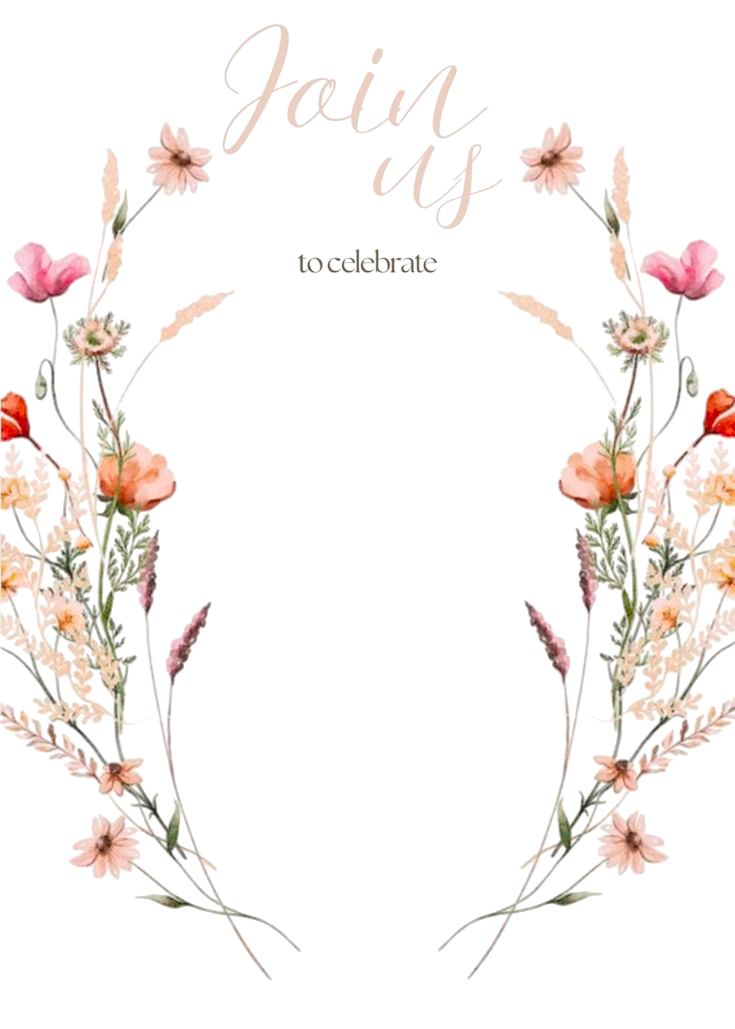
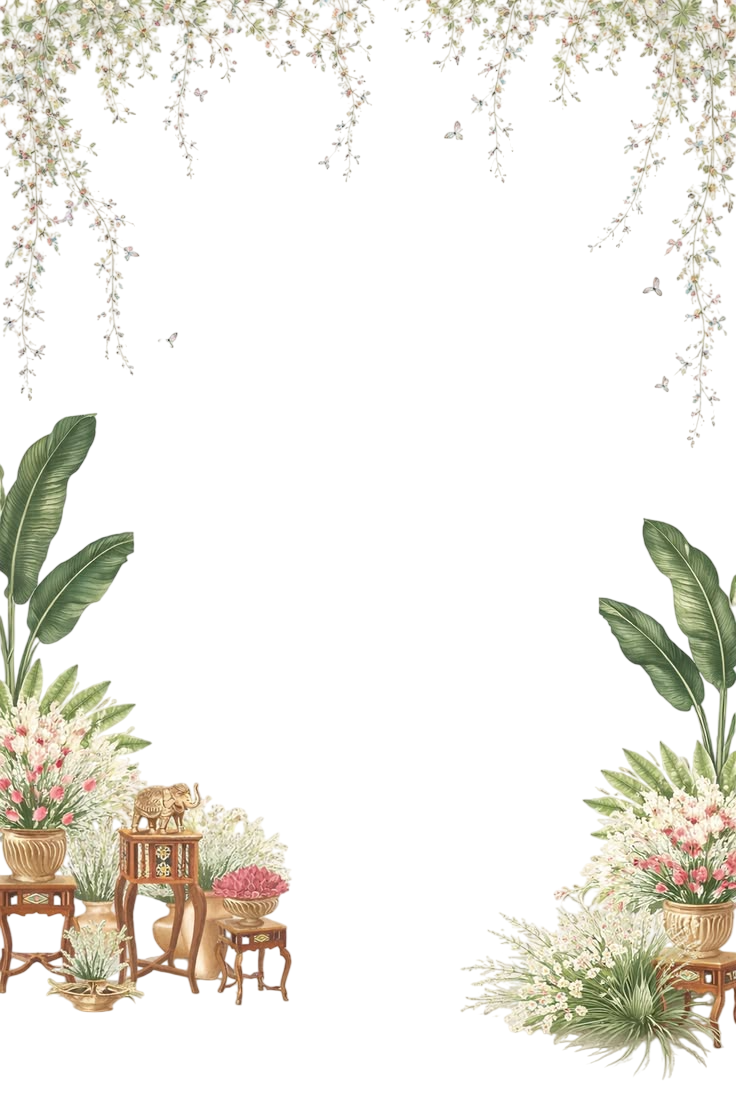
Revert "Merge remote-tracking branch 'origin/main'"
This reverts commit 4ac746b405e453a4cc2283856f0e8e7360980e4a, reversing
changes made to 40857df3603a16527e78c87f4ef7342f90b93694.

diff --git a/src/sections/VenueSection.tsx b/src/sections/VenueSection.tsx
@@ -2,8 +2,8 @@ import { useRef } from 'react';
 import { motion, useInView } from 'framer-motion';
 import { MapPin } from 'lucide-react';
 
-const VENUE_NAME = 'Alpha Horizon Bolgatty';
-const VENUE_ADDRESS = 'Alfa Horizon Business Centre, Goshree Rd, opposite ICTT, Vallarpadam, Kochi, Ernakulam, Kerala 682504';
+const VENUE_NAME = 'Krishna Inn Hotel';
+const VENUE_ADDRESS = 'KRISHNA INN, GURUVAYOOR (Star Hotel), East Nada, Guruvayur, Kerala 680101';
 
 function getMapsUrl(address: string) {
   const query = encodeURIComponent(address);
@@ -17,75 +17,62 @@ export default function VenueSection() {
   const mapsUrl = getMapsUrl(VENUE_ADDRESS);
 
   return (
-    <section ref={sectionRef} className="relative w-full h-[80vh] sm:h-[90vh]" style={{ clipPath: 'inset(-30% 0 -20% 0)' }}>
+    <section ref={sectionRef} className="relative w-full h-[80vh] sm:h-[90vh]" style={{ clipPath: 'inset(-30% 0 0 0)' }}>
       {/* Background image, scaled up so the top leaf overlaps the section above; left/right/bottom stay flush */}
       <img
-        src="/reception_venue.png"
+        src="/venue.png"
         alt="Wedding venue"
-        className="absolute inset-0 w-full h-full object-cover object-center"
+        className="absolute inset-0 w-full h-full object-cover"
+        style={{ transform: 'scale(1.18) translateX(5%) translateY(-4%)' }}
       />
-      <img
-        src="/Reception_venue_house.png"
-        alt="Venue house"
-        className="absolute top-[34%] left-1/2 -translate-x-1/2 -translate-y-1/2 w-[224px] sm:w-[291px] h-auto z-[5]"
-      />
-
-      {/* Title (kept independent of the shifted content block so it stays truly centered) */}
-      <motion.p
-        className="absolute inset-x-0 top-[4.5rem] sm:top-[6rem] z-10 text-center font-script text-4xl sm:text-6xl text-black drop-shadow-lg"
-        initial={{ opacity: 0, y: 20 }}
-        animate={isInView ? { opacity: 1, y: 0 } : {}}
-        transition={{ duration: 0.8 }}
-      >
-        Wedding Venue
-      </motion.p>
 
       {/* Content */}
-      <div className="relative z-10 flex flex-col items-center justify-start h-full pt-[56%] sm:pt-[52%] px-6 translate-x-8 sm:translate-x-12">
+      <div className="relative z-10 flex flex-col items-center justify-start h-full pt-24 sm:pt-32 px-6 translate-x-8 sm:translate-x-12">
+        {/* Title */}
+        <motion.p
+          className="font-script text-4xl sm:text-6xl text-[#D4AF37] drop-shadow-lg mb-4"
+          initial={{ opacity: 0, y: 20 }}
+          animate={isInView ? { opacity: 1, y: 0 } : {}}
+          transition={{ duration: 0.8 }}
+        >
+          Wedding Venue
+        </motion.p>
+
         {/* Venue Info */}
-        <div className="mb-8 -translate-x-8 sm:-translate-x-10 translate-y-2 sm:translate-y-1">
-          <motion.a
-            href={mapsUrl}
-            target="_blank"
-            rel="noopener noreferrer"
-            className="flex flex-col items-center gap-2 cursor-pointer hover:opacity-80 transition-opacity"
-            initial={{ opacity: 0, y: 20 }}
-            animate={isInView ? { opacity: 1, y: 0 } : {}}
-            transition={{ delay: 0.2, duration: 0.8 }}
-          >
-            <div className="text-center">
-              <p className="font-display text-lg text-[#D4AF37] drop-shadow flex items-center justify-center gap-2">
-                <MapPin className="w-4 h-4 text-[#D4AF37]" />
-                {VENUE_NAME}
-              </p>
-              <p className="font-serif text-sm text-[#D4AF37]/80">Kochi, Kerala</p>
-              <p className="font-serif text-xs sm:text-sm text-[#D4AF37]/80 mt-2">
-                Guest arrival 6:30 PM · Couple entry 7:00 PM
-                <br />
-                Dinner 8:00 PM
-              </p>
-            </div>
-          </motion.a>
-        </div>
+        <motion.a
+          href={mapsUrl}
+          target="_blank"
+          rel="noopener noreferrer"
+          className="flex items-center gap-3 mb-4 cursor-pointer hover:opacity-80 transition-opacity"
+          initial={{ opacity: 0, y: 20 }}
+          animate={isInView ? { opacity: 1, y: 0 } : {}}
+          transition={{ delay: 0.2, duration: 0.8 }}
+        >
+          <div className="w-10 h-10 rounded-full bg-white/20 backdrop-blur-sm flex items-center justify-center">
+            <MapPin className="w-5 h-5 text-[#D4AF37]" />
+          </div>
+          <div>
+            <p className="font-display text-lg text-[#D4AF37] drop-shadow">{VENUE_NAME}</p>
+            <p className="font-serif text-sm text-[#D4AF37]/80">Guruvayoor, Kerala</p>
+          </div>
+        </motion.a>
 
         {/* Floating location badge */}
-        <div className="-translate-x-8 sm:-translate-x-10">
-          <motion.a
-            href={mapsUrl}
-            target="_blank"
-            rel="noopener noreferrer"
-            className="glass rounded-full px-6 py-3 flex items-center gap-3 cursor-pointer hover:bg-white/40 transition-colors mt-6"
-            initial={{ opacity: 0, y: 20 }}
-            animate={isInView ? { opacity: 1, y: [20, 0, 0, -8, 0] } : {}}
-            transition={{
-              opacity: { delay: 0.5, duration: 0.4 },
-              y: { delay: 0.5, duration: 2, times: [0, 0.2, 0.5, 0.75, 1], repeat: Infinity, repeatDelay: 0.6 },
-            }}
-          >
-            <MapPin className="w-5 h-5 text-[#D4AF37]" />
-            <span className="font-serif text-base sm:text-lg text-[#D4AF37]">View on Maps</span>
-          </motion.a>
-        </div>
+        <motion.a
+          href={mapsUrl}
+          target="_blank"
+          rel="noopener noreferrer"
+          className="glass rounded-full px-6 py-3 flex items-center gap-3 cursor-pointer hover:bg-white/40 transition-colors"
+          initial={{ opacity: 0, y: 20 }}
+          animate={isInView ? { opacity: 1, y: [20, 0, 0, -8, 0] } : {}}
+          transition={{
+            opacity: { delay: 0.5, duration: 0.4 },
+            y: { delay: 0.5, duration: 2, times: [0, 0.2, 0.5, 0.75, 1], repeat: Infinity, repeatDelay: 0.6 },
+          }}
+        >
+          <MapPin className="w-5 h-5 text-[#D4AF37]" />
+          <span className="font-serif text-base sm:text-lg text-[#D4AF37]">View on Maps</span>
+        </motion.a>
       </div>
     </section>
   );

diff --git a/src/sections/DateSection.tsx b/src/sections/DateSection.tsx
@@ -2,30 +2,7 @@ import { useRef } from 'react';
 import { motion, useInView } from 'framer-motion';
 import { CalendarPlus } from 'lucide-react';
 
-const EVENT_TITLE = "Agin & Aarati's Wedding";
-const EVENT_LOCATION = 'Alfa Horizon Business Centre, Goshree Rd, opposite ICTT, Vallarpadam, Kochi, Ernakulam, Kerala 682504';
-const EVENT_DESCRIPTION = "Join us as we celebrate Agin & Aarati's wedding!";
-const EVENT_START = '20261031T043000Z';
-const EVENT_END = '20261031T190000Z';
-
 function addWeddingToCalendar() {
-  const isIOS = /iPhone|iPad|iPod/.test(navigator.userAgent);
-  const isAndroid = /Android/.test(navigator.userAgent);
-
-  if (isAndroid) {
-    // Android's Calendar app doesn't reliably pick up .ics downloads, but every
-    // Android device with Google Calendar installed handles this URL directly.
-    const params = new URLSearchParams({
-      action: 'TEMPLATE',
-      text: EVENT_TITLE,
-      dates: `${EVENT_START}/${EVENT_END}`,
-      details: EVENT_DESCRIPTION,
-      location: EVENT_LOCATION,
-    });
-    window.open(`https://calendar.google.com/calendar/render?${params.toString()}`, '_blank');
-    return;
-  }
-
   const ics = [
     'BEGIN:VCALENDAR',
     'VERSION:2.0',
@@ -34,16 +11,17 @@ function addWeddingToCalendar() {
     'BEGIN:VEVENT',
     'UID:agin-aarati-wedding-2026@invite',
     `DTSTAMP:${new Date().toISOString().replace(/[-:]/g, '').split('.')[0]}Z`,
-    `DTSTART:${EVENT_START}`,
-    `DTEND:${EVENT_END}`,
-    `SUMMARY:${EVENT_TITLE}`,
-    `LOCATION:${EVENT_LOCATION.replace(/,/g, '\\,')}`,
-    `DESCRIPTION:${EVENT_DESCRIPTION}`,
+    'DTSTART:20261030T043000Z',
+    'DTEND:20261030T190000Z',
+    "SUMMARY:Agin & Aarati's Wedding",
+    'LOCATION:KRISHNA INN\\, GURUVAYOOR (Star Hotel)\\, East Nada\\, Guruvayur\\, Kerala 680101',
+    "DESCRIPTION:Join us as we celebrate Agin & Aarati's wedding!",
     'END:VEVENT',
     'END:VCALENDAR',
   ].join('\r\n');
 
   const blob = new Blob([ics], { type: 'text/calendar;charset=utf-8' });
+  const isIOS = /iPhone|iPad|iPod/.test(navigator.userAgent);
 
   if (isIOS) {
     // iOS Safari blocks JS-driven navigation to data: URIs unless it's a base64
@@ -62,7 +40,7 @@ function addWeddingToCalendar() {
     return;
   }
 
-  // Desktop: browsers hand .ics blobs to the default calendar app via the download/open-with sheet.
+  // Android/desktop: browsers hand .ics blobs to the Calendar app via the download/open-with sheet.
   const url = URL.createObjectURL(blob);
   const link = document.createElement('a');
   link.href = url;
@@ -114,7 +92,7 @@ export default function DateSection() {
     >
       {/* Full scale image */}
       <img
-        src="/reception_date.png"
+        src="/save_the_date.png"
         alt="Date"
         className="absolute inset-0 w-full h-full object-fill"
       />
@@ -127,7 +105,7 @@ export default function DateSection() {
       */}
       <div
         className="absolute left-0 right-0 flex flex-col items-center justify-center"
-        style={{ top: '22%', bottom: '32%', paddingLeft: '8%', paddingRight: '8%', gap: '2vw' }}
+        style={{ top: '22%', bottom: '32%', paddingLeft: '4%', paddingRight: '12%', gap: '2vw' }}
       >
         {/* Title */}
         <motion.p
@@ -140,9 +118,21 @@ export default function DateSection() {
           Save The Date
         </motion.p>
 
+        <motion.div
+          className="flex items-center text-[#9b7a4a] font-serif tracking-wider"
+          style={{ gap: '1.2vw', fontSize: '3.2vw' }}
+          initial={{ opacity: 0 }}
+          animate={isInView ? { opacity: 1 } : {}}
+          transition={{ delay: 0.3, duration: 0.8 }}
+        >
+          <span className="text-[#c9a84c]">&#10022;</span>
+          <span>Mark the date</span>
+          <span className="text-[#c9a84c]">&#10022;</span>
+        </motion.div>
+
         {/* Date cards */}
-        <div className="flex w-full justify-center" style={{ gap: '2.5vw', marginTop: '4vw' }}>
-          <DateCard value="31" label="Day" delay={0.2} />
+        <div className="flex" style={{ gap: '2.5vw', marginTop: '4vw' }}>
+          <DateCard value="30" label="Day" delay={0.2} />
           <DateCard value="Oct" label="Month" delay={0.4} />
           <DateCard value="2026" label="Year" delay={0.6} />
         </div>

diff --git a/src/sections/HeroSection.tsx b/src/sections/HeroSection.tsx
@@ -53,6 +53,46 @@ function Bird({ delay, duration, startY, reverse = false, scale = 1 }: BirdProps
   );
 }
 
+interface CloudProps {
+  top: string;
+  delay: number;
+  duration: number;
+  scale: number;
+  opacity: number;
+}
+
+function Cloud({ top, delay, duration, scale, opacity }: CloudProps) {
+  return (
+    <motion.div
+      className="absolute pointer-events-none"
+      style={{ 
+        top,
+        left: '-30%',
+        width: '300px',
+        height: '120px',
+        opacity,
+      }}
+      animate={{ 
+        x: ['0vw', '130vw'],
+        y: [0, -15, 10, -5, 0],
+      }}
+      transition={{ 
+        x: { duration, delay, repeat: Infinity, ease: 'linear' },
+        y: { duration: 8, delay, repeat: Infinity, ease: 'easeInOut' }
+      }}
+    >
+      <div 
+        className="w-full h-full rounded-full"
+        style={{
+          background: `radial-gradient(ellipse at center, rgba(255,255,255,0.9) 0%, rgba(255,255,255,0.6) 40%, rgba(255,255,255,0) 70%)`,
+          filter: 'blur(20px)',
+          transform: `scale(${scale})`,
+        }}
+      />
+    </motion.div>
+  );
+}
+
 export default function HeroSection() {
   const heroRef = useRef<HTMLDivElement>(null);
 
@@ -84,6 +124,14 @@ export default function HeroSection() {
         <Bird delay={8} duration={24} startY={30} reverse scale={0.5} />
       </div>
 
+      {/* Animated clouds */}
+      <div className="absolute inset-0 pointer-events-none z-[5] overflow-hidden">
+        <Cloud top="5%" delay={0} duration={35} scale={1.2} opacity={0.6} />
+        <Cloud top="15%" delay={8} duration={40} scale={0.8} opacity={0.4} />
+        <Cloud top="8%" delay={16} duration={45} scale={1.0} opacity={0.5} />
+        <Cloud top="20%" delay={24} duration={38} scale={0.6} opacity={0.3} />
+      </div>
+
       {/* Floating decorative elements - small sparkles */}
       <div className="absolute inset-0 pointer-events-none z-[8]">
         {[...Array(6)].map((_, i) => (
@@ -110,28 +158,28 @@ export default function HeroSection() {
       </div>
 
       {/* Hero text content */}
-      <div className="relative z-20 flex flex-col items-center justify-center h-[100vh] px-6 pb-[8vh]">
+      <div className="relative z-20 flex flex-col items-center justify-center h-[100vh] px-6 pb-[15vh]">
         <motion.div
           initial={{ opacity: 0, y: 30 }}
           animate={{ opacity: 1, y: 0 }}
           transition={{ delay: 0.3, duration: 1, ease: [0.22, 1, 0.36, 1] }}
-          className="text-center mt-20 sm:mt-28"
+          className="text-center"
         >
-          <motion.p
-            className="font-serif text-base sm:text-lg text-[#6b6155] mb-1 -mt-6 sm:-mt-8"
-            initial={{ opacity: 0 }}
-            animate={{ opacity: 1 }}
-            transition={{ delay: 0.7, duration: 0.8 }}
-          >
-            the wedding reception of
-          </motion.p>
-
-          <motion.p
-            className="font-script text-4xl sm:text-6xl text-[#5a4a3d] drop-shadow-sm"
+          <motion.p 
+            className="font-script text-5xl sm:text-7xl text-[#5a4a3d] mb-2 drop-shadow-sm"
             animate={{ y: [0, -5, 0] }}
             transition={{ duration: 4, repeat: Infinity, ease: 'easeInOut' }}
           >
             Agin & Aarati
+          </motion.p>
+          
+          <motion.p 
+            className="font-serif text-lg sm:text-xl text-[#7a6a5d] tracking-[0.2em] uppercase"
+            initial={{ opacity: 0 }}
+            animate={{ opacity: 1 }}
+            transition={{ delay: 0.8, duration: 0.8 }}
+          >
+            are getting married
           </motion.p>
 
           {/* Decorative line */}
@@ -153,8 +201,8 @@ export default function HeroSection() {
       </div>
 
       {/* Scroll indicator */}
-      <motion.div
-        className="absolute bottom-8 inset-x-0 mx-auto w-fit z-20 flex flex-col items-center gap-2"
+      <motion.div 
+        className="absolute bottom-8 left-1/2 -translate-x-1/2 z-20 flex flex-col items-center gap-2"
         animate={{ y: [0, 8, 0] }}
         transition={{ duration: 2, repeat: Infinity }}
       >

diff --git a/src/sections/LandingPage.tsx b/src/sections/LandingPage.tsx
@@ -59,22 +59,19 @@ export default function LandingPage() {
   return (
     <div ref={containerRef} className="relative w-full bg-[#faf7f2] overflow-x-clip">
       <HeroSection />
-      <div className="relative z-20 flex justify-center -mt-10 sm:-mt-14 -mb-10 sm:-mb-14 pointer-events-none">
-        <img src="/extra_img_2.png" alt="" className="w-screen max-w-none h-auto" />
-      </div>
-      <div className="animate-section relative z-10">
+      <div className="animate-section">
         <DateSection />
       </div>
       <div className="animate-section">
         <LetterSection />
       </div>
-      <div className="relative z-20 flex justify-center -mt-10 sm:-mt-14 pointer-events-none">
-        <img src="/extra_img_2.png" alt="" className="w-screen max-w-none h-auto" />
-      </div>
-      <div className="animate-section relative z-20 -mb-20 sm:-mb-28">
+      {/* <div className="animate-section">
+        <ScheduleSection />
+      </div> */}
+      <div className="animate-section">
         <VenueSection />
       </div>
-      <div className="animate-section relative z-10">
+      <div className="animate-section">
         <DressCodeSection />
       </div>
       <div className="animate-section">

diff --git a/src/sections/ScheduleSection.tsx b/src/sections/ScheduleSection.tsx
@@ -2,9 +2,12 @@ import { useRef } from 'react';
 import { motion, useInView, useScroll, useTransform } from 'framer-motion';
 
 const events = [
-  { time: '6:30 PM', title: 'Guest Arrival', align: 'right' },
-  { time: '7:00 PM', title: 'Couple Entry', align: 'left' },
-  { time: '8:00 PM', title: 'Dinner', align: 'right' },
+  { time: '10:00', title: 'Haldi & Mehndi', align: 'right' },
+  { time: '16:00', title: 'Baraat Assembly', align: 'left' },
+  { time: '18:00', title: 'Varmala & Sunset Cocktail', align: 'right' },
+  { time: '19:30', title: 'Phere (Wedding Ceremony)', align: 'left' },
+  { time: '21:00', title: 'Reception & Dinner', align: 'right' },
+  { time: '23:30', title: 'Vidaai', align: 'left' },
 ];
 
 export default function ScheduleSection() {
